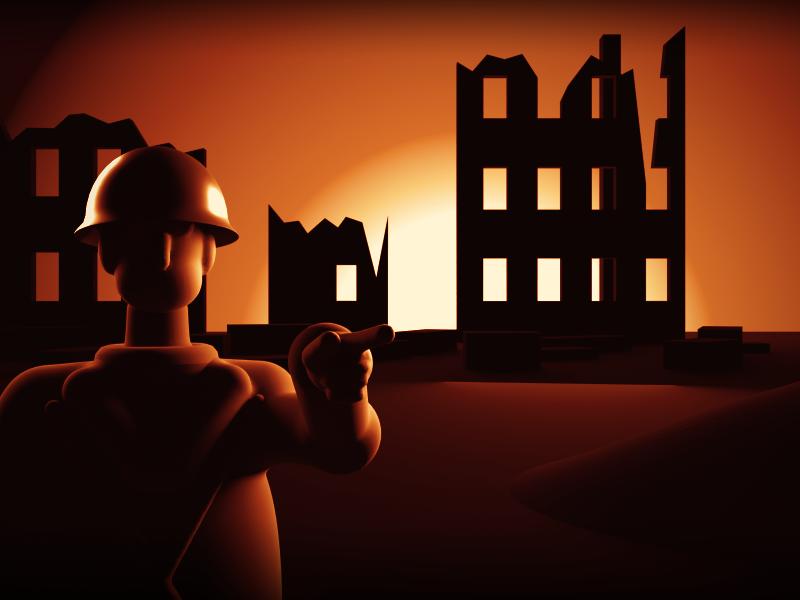
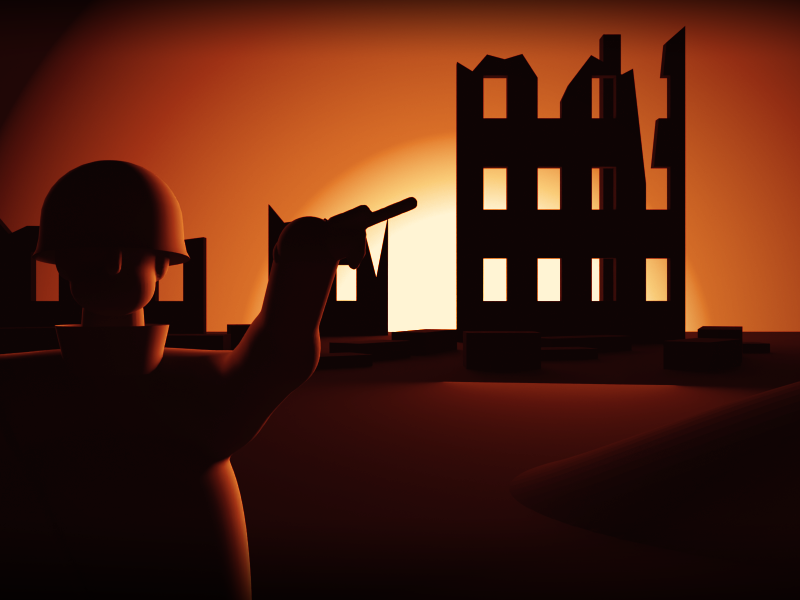
Menu review fixes: silhouette soldier, roster title column, debrief columns
- menu.py: the rifleman is a matte near-black silhouette with only a thin fire rim
  (no specular, no fill, world light ~0); SSh-40 is now a low deep dome with a slight
  rim flare and no brim; stand-up greatcoat collar, square shoulders, Mosin slung;
  the pointing hand is built finger by finger and raised against the glow. The low
  left ruin keeps his head against the sky. Main menu buttons move right to clear it.
- Requisition: ACTIVE ROSTER reads down the right edge (mirroring FORCE POOL on the
  left) so neither title touches a panel; drawVerticalStencil gains a downward mode.
- Debrief: the second team column (and its headers) only appears when the list
  overflows the first.

diff --git a/src/ui/screens/forcePicker.ts b/src/ui/screens/forcePicker.ts
@@ -112,13 +112,15 @@ export class ForcePicker {
   private rosterScroll = 0;
   private mouse: Vec2 = { x: -1, y: -1 };
 
+  // pool on the left under FORCE POOL (reading up the left edge), roster on the right with
+  // ACTIVE ROSTER reading down the right edge: each title has its own clear column
   private regularBtn: Rect = { x: 60, y: 96, w: 104, h: 22 };
   private armorBtn: Rect = { x: 170, y: 96, w: 104, h: 22 };
-  private poolRect: Rect = { x: 60, y: 128, w: 330, h: 7 * ROW_H + 2 };
-  private infoRect: Rect = { x: 60, y: 346, w: 330, h: 146 };
-  private retireBtn: Rect = { x: 700, y: 96, w: 70, h: 22 };
-  private rosterRect: Rect = { x: 440, y: 128, w: 330, h: 7 * ROW_H + 2 };
-  private pointsRect: Rect = { x: 440, y: 346, w: 330, h: 34 };
+  private poolRect: Rect = { x: 60, y: 128, w: 324, h: 7 * ROW_H + 2 };
+  private infoRect: Rect = { x: 60, y: 346, w: 324, h: 146 };
+  private retireBtn: Rect = { x: 670, y: 96, w: 70, h: 22 };
+  private rosterRect: Rect = { x: 416, y: 128, w: 324, h: 7 * ROW_H + 2 };
+  private pointsRect: Rect = { x: 416, y: 346, w: 324, h: 34 };
 
   constructor(side: Side, year: number, points: number, initialRosterIds: string[]) {
     this.side = side;
@@ -226,7 +228,7 @@ export class ForcePicker {
     }
 
     // ---- active roster ----
-    drawVerticalStencil(ctx, 'ACTIVE ROSTER', 434, 492, 44, 364);
+    drawVerticalStencil(ctx, 'ACTIVE ROSTER', 748, 128, 44, 364, true);
     ctx.font = UI.label;
     ctx.textAlign = 'left';
     ctx.fillStyle = UI.text;

diff --git a/src/ui/chrome.ts b/src/ui/chrome.ts
@@ -205,13 +205,15 @@ export function drawDarkPanel(ctx: CanvasRenderingContext2D, r: Rect): void {
   ctx.restore();
 }
 
-/** `text` rotated -90deg (reading bottom-to-top) in chunky letter-spaced Impact with a
- * dark outline and a flame gradient — the requisition screen's "FORCE POOL" /
- * "ACTIVE ROSTER" labels. `maxLen` squeezes the run to fit. */
-export function drawVerticalStencil(ctx: CanvasRenderingContext2D, text: string, x: number, yBottom: number, size: number, maxLen: number): void {
+/** `text` set vertically in chunky letter-spaced Impact with a dark outline and a flame
+ * gradient — the requisition screen's "FORCE POOL" / "ACTIVE ROSTER" labels, one on each
+ * outer edge. Upward (default): reads bottom-to-top from (x, y) = its baseline's bottom end,
+ * glyphs to the left of x. Downward: reads top-to-bottom from (x, y) = its top-left corner,
+ * glyphs to the right of x. `maxLen` squeezes the run to fit. */
+export function drawVerticalStencil(ctx: CanvasRenderingContext2D, text: string, x: number, y: number, size: number, maxLen: number, downward = false): void {
   ctx.save();
-  ctx.translate(x, yBottom);
-  ctx.rotate(-Math.PI / 2);
+  ctx.translate(x, y);
+  ctx.rotate(downward ? Math.PI / 2 : -Math.PI / 2);
   ctx.font = `900 ${size}px Impact, "Arial Black", Arial, sans-serif`;
   ctx.textAlign = 'left';
   ctx.textBaseline = 'alphabetic';

diff --git a/src/ui/screens/mainMenu.ts b/src/ui/screens/mainMenu.ts
@@ -13,15 +13,15 @@ interface MenuButtonSpec {
   action: () => void;
 }
 
-const BTN_W = 330;
+const BTN_W = 310;
 const BTN_H = 50;
 
 /** The title screen: three banner buttons stepped down across the fire glow, as in CC3. */
 export class MainMenuScreen implements Screen {
   private buttons: MenuButtonSpec[] = [
-    { label: 'Play A Game', rect: { x: 380, y: 170, w: BTN_W, h: BTN_H }, action: () => game.setScreen(new BattleSetupScreen()) },
-    { label: 'Operation', rect: { x: 406, y: 262, w: BTN_W, h: BTN_H }, action: () => game.setScreen(new OperationScreen()) },
-    { label: 'Options', rect: { x: 432, y: 354, w: BTN_W, h: BTN_H }, action: () => game.setScreen(new OptionsScreen(this, false)) },
+    { label: 'Play A Game', rect: { x: 414, y: 170, w: BTN_W, h: BTN_H }, action: () => game.setScreen(new BattleSetupScreen()) },
+    { label: 'Operation', rect: { x: 438, y: 262, w: BTN_W, h: BTN_H }, action: () => game.setScreen(new OperationScreen()) },
+    { label: 'Options', rect: { x: 462, y: 354, w: BTN_W, h: BTN_H }, action: () => game.setScreen(new OptionsScreen(this, false)) },
   ];
   private hotIndex = -1;
 

diff --git a/src/ui/screens/debrief.ts b/src/ui/screens/debrief.ts
@@ -110,12 +110,13 @@ export class DebriefScreen implements Screen {
     const y0 = TEAMS.y + 64;
     const maxRows = Math.floor((TEAMS.y + TEAMS.h - 10 - y0) / rowH) + 1;
     const cols = [0, 118, 190, 228, 262];
-    for (let c = 0; c < 2; c++) {
+    const fled = state.fledSide === player;
+    const teams = [...state.teams.values()].filter((t) => t.side === player);
+    // the second column only when the list overflows the first
+    for (let c = 0; c < (teams.length > maxRows ? 2 : 1); c++) {
       const x = TEAMS.x + 20 + c * (colW + 20);
       ['Team', 'Experience', 'Men', 'Kills', 'State'].forEach((h, i) => drawLabel(ctx, h, x + cols[i], TEAMS.y + 44, UI.note, UI.dim));
     }
-    const fled = state.fledSide === player;
-    const teams = [...state.teams.values()].filter((t) => t.side === player);
     ctx.save();
     ctx.font = UI.body;
     teams.slice(0, maxRows * 2).forEach((team, i) => {

diff --git a/tools/blender/menu.py b/tools/blender/menu.py
@@ -7,7 +7,8 @@ working screens (setup, requisition, options, debrief) where he would only compe
 
 The CC3 menu look, in our own art: a Soviet rifleman (SSh-40 helmet, greatcoat) on the left third
 points toward the menu buttons, rim-lit by a burning town whose ruins stand against the fire glow behind the menu buttons.  Everything is a simple procedural shape
-(metaball body, lathed helmet, boxes); the drama comes from the lighting.  The render is graded in
+(metaball body, lathed helmet, boxes); the figure is a matte near-black silhouette that only the
+fire behind him rim-lights, like a poster.  The render is graded in
 numpy with a single maroon-to-flame gradient map so the poster has one clean palette (no texture
 noise), then darkened toward the top bar and the bottom button strip so the chrome stays legible.
 
@@ -29,7 +30,7 @@ from common import clear_scene, make_material, save_png  # noqa: E402
 ROOT = os.path.abspath(os.path.join(os.path.dirname(__file__), "..", ".."))
 OUT = os.path.join(ROOT, "public", "menu", "poster.png")
 W, H = 800, 600
-FIG_X = -0.42   # figure position (m, screen left of centre)
+FIG_X = -0.50   # figure position (m, screen left of centre)
 SS = 2   # supersample
 
 # gradient map, luminance 0..1 -> sRGB (dark oxblood -> maroon -> brick red -> flame -> hot white)
@@ -180,7 +181,7 @@ def build():
     scene.world = bpy.data.worlds.new("w")
     scene.world.use_nodes = True
     scene.world.node_tree.nodes["Background"].inputs["Color"].default_value = (0.01, 0.002, 0.002, 1)
-    scene.world.node_tree.nodes["Background"].inputs["Strength"].default_value = 0.3
+    scene.world.node_tree.nodes["Background"].inputs["Strength"].default_value = 0.02
 
     cam_d = bpy.data.cameras.new("cam")
     cam_d.lens = 40
@@ -190,60 +191,69 @@ def build():
     cam.rotation_euler = (math.radians(90), 0, 0)
     scene.camera = cam
 
-    dark = make_material("fig", "#241a16", roughness=0.95)
-    skin = make_material("skin", "#4a3228", roughness=0.85)
-    steel = make_material("steel", "#3c3a30", roughness=0.35, metallic=0.4)
-    wood = make_material("wood", "#2c1c12", roughness=0.6)
+    # the figure is a poster silhouette: dark, matte, no specular; only the fire behind him
+    # draws a thin warm rim along his edges
+    dark = make_material("fig", "#3a2a22", roughness=1.0)
+    dark.node_tree.nodes["Principled BSDF"].inputs["Specular IOR Level"].default_value = 0.0
     ruin = make_material("ruin", "#120c0a", roughness=1.0)
 
-    # ---- the rifleman, chest to the camera, pointing with his left hand ----
+    # ---- the rifleman in a greatcoat, rifle slung, pointing with his left hand ----
     fx = 0.0      # modelled at the origin; the 'figure' empty places and turns him
     body = Meta("body", dark)
-    body.ellipsoid((fx, 0.08, 1.02), 0.22, 0.13, 0.30)                     # chest (greatcoat)
-    body.ellipsoid((fx, 0.08, 0.70), 0.21, 0.12, 0.30)
-    body.capsule((fx - 0.19, 0.08, 1.29), (fx + 0.19, 0.08, 1.29), 0.072)   # shoulders
-    body.capsule((fx - 0.12, -0.02, 1.33), (fx - 0.02, -0.07, 1.20), 0.035)  # greatcoat collar
-    body.capsule((fx + 0.12, -0.02, 1.33), (fx + 0.02, -0.07, 1.20), 0.035)
-    body.capsule((fx - 0.21, 0.08, 1.24), (fx - 0.25, 0.10, 0.86), 0.062)   # right arm hanging
-    body.capsule((fx - 0.25, 0.10, 0.86), (fx - 0.22, 0.02, 0.60), 0.055)
-    # left arm (screen right) thrust forward: shoulder -> elbow -> wrist, foreshortened
-    sh = (fx + 0.19, 0.06, 1.25)
-    el = (fx + 0.28, -0.18, 1.26)
-    wr = (fx + 0.19, -0.46, 1.40)
-    body.capsule(sh, el, 0.062)
-    body.capsule(el, wr, 0.050)
-    body.capsule((fx - 0.07, 0.02, 1.34), (fx + 0.07, 0.02, 1.34), 0.045)   # collar
-    body.capsule((fx, 0.05, 1.32), (fx, 0.05, 1.46), 0.052)                 # neck
-    gear = Meta("gear", dark)                                                 # kit over the greatcoat
-    collar = lathe("collar", [(0.085 + 0.024 * math.cos(math.radians(t)), 0.03 * math.sin(math.radians(t)))
-                              for t in range(0, 361, 30)], dark, (fx, 0.05, 1.37), segs=32, scale=(1.0, 0.95, 1.0))
-    gear.capsule((fx - 0.17, -0.02, 1.30), (fx + 0.12, -0.10, 0.80), 0.014)   # bag strap across the chest
-    gear.capsule((fx + 0.17, -0.02, 1.30), (fx - 0.10, -0.10, 0.84), 0.012)
+    body.ellipsoid((fx, 0.08, 1.02), 0.24, 0.14, 0.32)                      # chest (greatcoat)
+    body.ellipsoid((fx, 0.08, 0.70), 0.23, 0.13, 0.30)
+    body.capsule((fx - 0.20, 0.08, 1.31), (fx + 0.20, 0.08, 1.31), 0.070)    # square shoulders
+    body.capsule((fx - 0.23, 0.08, 1.27), (fx - 0.27, 0.10, 0.88), 0.064)    # right arm hanging
+    body.capsule((fx - 0.27, 0.10, 0.88), (fx - 0.24, 0.02, 0.62), 0.056)
+    # left arm (screen right) thrust forward: shoulder -> elbow -> wrist
+    sh = (fx + 0.21, 0.06, 1.28)
+    el = (fx + 0.28, -0.08, 1.39)
+    wr = (fx + 0.29, -0.27, 1.56)
+    body.capsule(sh, el, 0.064)
+    body.capsule(el, wr, 0.050)                                               # greatcoat sleeve
+    body.capsule((fx, 0.05, 1.34), (fx, 0.05, 1.46), 0.050)                  # neck
+    collar = lathe("collar", [(0.098, 0.045), (0.088, 0.0), (0.084, -0.04)], dark,          # stand-up collar
+                   (fx, 0.05, 1.39), segs=32, scale=(1.0, 0.95, 1.0))
 
-    hand = Meta("hand", skin)
-    hand.ellipsoid((wr[0] + 0.005, wr[1] - 0.05, wr[2]), 0.042, 0.048, 0.040)           # fist
-    hand.capsule((wr[0] + 0.01, wr[1] - 0.08, wr[2] + 0.025),
-                 (wr[0] + 0.035, wr[1] - 0.15, wr[2] + 0.04), 0.012)                     # index finger
-    hand.capsule((wr[0] - 0.03, wr[1] - 0.06, wr[2] + 0.01),
-                 (wr[0] - 0.02, wr[1] - 0.10, wr[2] + 0.03), 0.013)                      # thumb
-    for k in range(3):                                                                    # curled fingers
-        hand.ellipsoid((wr[0] + 0.005, wr[1] - 0.085, wr[2] - 0.004 - 0.017 * k), 0.022, 0.018, 0.009)
+    # the hand at silhouette level, pointing ahead-right: back of the hand, a straight index
+    # finger, the thumb laid along it, three curled fingers under the knuckles
+    hand = Meta("hand", dark)
+    ax = Vector((0.80, -0.50, 0.28)).normalized()           # pointing direction (figure space)
+    up = Vector((0.0, 0.0, 1.0))
+    side = ax.cross(up).normalized()
+    w = Vector(wr)
+    P = lambda a, s_, u: tuple(w + ax * a + side * s_ + up * u)   # noqa: E731
+    hand.capsule(P(-0.03, 0, 0), P(0.02, 0, 0), 0.030)                    # cuff / wrist
+    hand.ellipsoid(P(0.055, 0, 0), 0.034, 0.030, 0.030)                   # back of the hand
+    hand.capsule(P(0.08, 0, 0.012), P(0.17, 0, 0.018), 0.0095)           # index finger
+    hand.capsule(P(0.05, 0.02, 0.022), P(0.095, 0.012, 0.028), 0.010)    # thumb
+    for k in range(3):                                                    # curled fingers
+        hand.capsule(P(0.085, 0, -0.004 - 0.014 * k), P(0.075, 0, -0.018 - 0.014 * k), 0.0085)
 
-    head = Meta("head", skin)
-    hz = 1.575
-    head.ellipsoid((fx, 0.04, hz), 0.082, 0.092, 0.108)
-    head.ellipsoid((fx, -0.005, hz - 0.07), 0.060, 0.050, 0.040)                        # jaw/chin
-    head.capsule((fx, -0.058, hz + 0.005), (fx, -0.07, hz - 0.03), 0.012)               # nose
-    head.capsule((fx - 0.04, -0.045, hz + 0.035), (fx + 0.04, -0.045, hz + 0.035), 0.014)  # brow
+    head = Meta("head", dark)
+    hz = 1.565
+    head.ellipsoid((fx, 0.04, hz), 0.080, 0.090, 0.104)
+    head.ellipsoid((fx, -0.005, hz - 0.068), 0.058, 0.050, 0.038)                       # jaw/chin
+    head.capsule((fx, -0.056, hz + 0.0), (fx, -0.068, hz - 0.03), 0.011)                # nose
     for sgn in (-1, 1):
-        head.ellipsoid((fx + sgn * 0.083, 0.04, hz - 0.005), 0.016, 0.026, 0.034)        # ears
+        head.ellipsoid((fx + sgn * 0.08, 0.04, hz - 0.01), 0.015, 0.024, 0.03)          # ears
 
-    # SSh-40: a deep hemispherical dome with a short, even lip all round (no German skirt/visor)
-    prof = [(0.001, 0.132)] + [(0.122 * math.sin(math.radians(a)), 0.132 * math.cos(math.radians(a)))
-                               for a in range(8, 91, 8)]
-    prof += [(0.126, -0.010), (0.138, -0.024), (0.141, -0.029)]
-    helm = lathe("helmet", prof, steel, (fx, 0.035, hz + 0.045), scale=(1.0, 1.08, 1.0))
-    helm.rotation_euler = (math.radians(-7), 0, 0)
+    # SSh-40: a low, deep dome whose sides come straight down over the temples and flare
+    # out slightly at the rim; no brim, no visor, no German neck skirt
+    prof = [(0.001, 0.112)] + [(0.121 * math.sin(math.radians(a)), 0.112 * math.cos(math.radians(a)))
+                               for a in range(10, 91, 10)]
+    prof += [(0.123, -0.030), (0.127, -0.050), (0.133, -0.062)]
+    helm = lathe("helmet", prof, dark, (fx, 0.035, hz + 0.05), scale=(1.0, 1.08, 1.0))
+    helm.rotation_euler = (math.radians(-5), 0, 0)
+
+    # Mosin slung on the right shoulder: muzzle and bayonet rise behind it, strap over the chest
+    r0 = Vector((fx - 0.15, 0.17, 0.62))
+    r1 = Vector((fx - 0.25, 0.19, 1.66))
+    d = (r1 - r0).normalized()
+    rifle = [cylinder("stock", r0, r0 + d * 0.6, 0.024, dark),
+             cylinder("barrel", r0 + d * 0.55, r1, 0.011, dark),
+             cylinder("bayonet", r1, r1 + d * 0.28, 0.0045, dark, segs=6),
+             cylinder("sling", (fx - 0.20, 0.0, 1.33), (fx + 0.06, -0.12, 0.75), 0.009, dark, segs=6)]
 
     # stand him left of the buttons, turned a little toward the fire (screen right) so the
     # rim light draws his profile; he points past the viewer toward the menu buttons
@@ -251,7 +261,7 @@ def build():
     scene.collection.objects.link(fig)
     fig.location = (FIG_X, 0.0, 0.0)
     fig.rotation_euler = (0, 0, math.radians(18))
-    for o in (body.o, gear.o, collar, hand.o, head.o, helm):
+    for o in (body.o, collar, hand.o, head.o, helm, *rifle):
         o.parent = fig
     fx = FIG_X
 
@@ -305,7 +315,7 @@ def build():
         mod.operation, mod.solver, mod.object = "DIFFERENCE", "EXACT", wo
         return o
 
-    facade(-16.0, 26.0, 10.0, 9.0, 1)
+    facade(-16.0, 26.0, 10.0, 5.0, 1)
     facade(-5.5, 36.0, 5.0, 6.0, 4)
     facade(2.0, 30.0, 8.0, 13.0, 2)
     facade(10.5, 21.0, 6.5, 7.0, 3)
@@ -339,8 +349,8 @@ def build():
         lo.rotation_quaternion = Vector((0, 0, -1)).rotation_difference((Vector(target) - Vector(loc)).normalized())
         return lo
 
-    area("rim", (fx + 1.1, 1.0, 1.8), (fx, 0.0, 1.3), 220.0, 0.8, (1.0, 0.55, 0.22))
-    area("rim2", (-1.3, 0.9, 1.9), (fx, 0.0, 1.4), 60.0, 0.8, (1.0, 0.35, 0.12))
+    area("rim", (fx + 0.8, 1.3, 1.7), (fx, 0.0, 1.3), 700.0, 0.5, (1.0, 0.55, 0.22))
+    area("rim2", (fx - 0.9, 1.3, 1.9), (fx, 0.0, 1.4), 300.0, 0.5, (1.0, 0.35, 0.12))
     area("glow", (3.0, 14.0, 1.5), (1.5, 5.0, 0.5), 120.0, 4.0, (1.0, 0.5, 0.15))
     return scene
 
